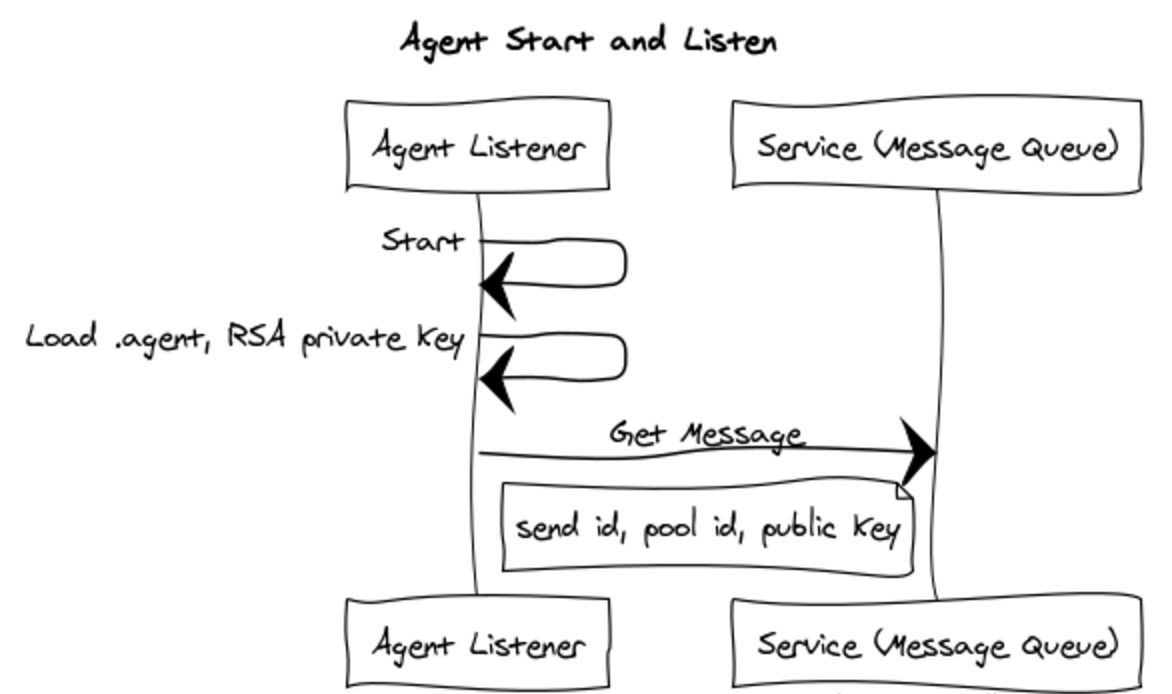
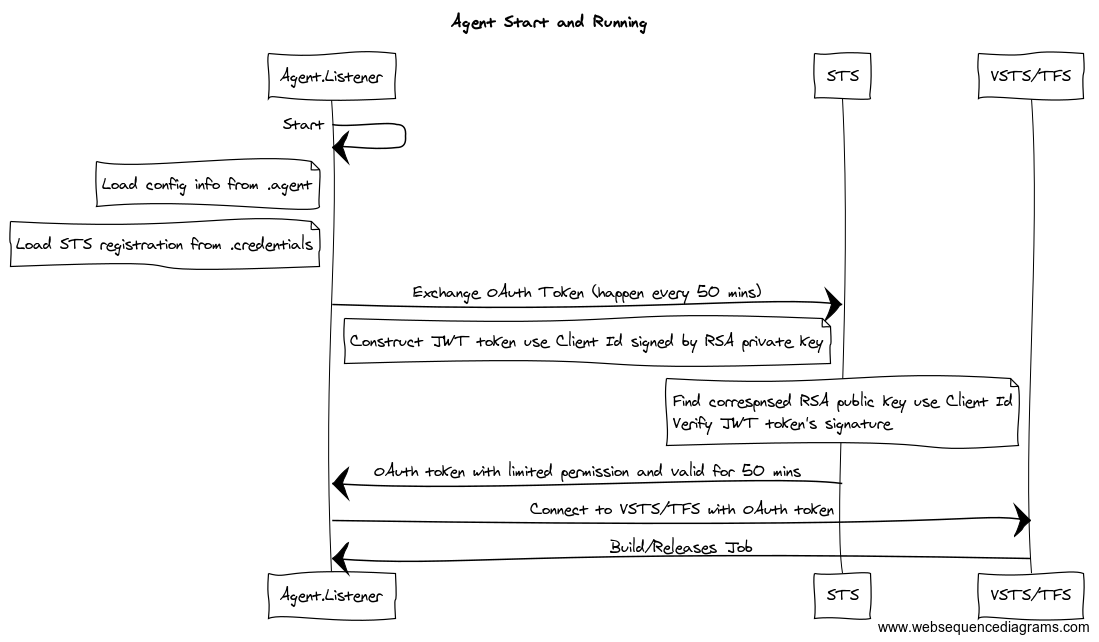
update agent auth doc. (#1351)
* update agent auth doc.

* update sdk install script

diff --git a/docs/design/auth.md b/docs/design/auth.md
@@ -18,9 +18,9 @@ Configuration is done with the user being authenticated via a PAT (VSTS | TFS) o
 
 *Your credentials are not stored and are only relevant for registering the agent with the service.*
 
-During configuration an RSA private key is created and on windows protected with DPAPI (machine level encrypted - agent only valid on that machine) and on Linux / OSX with chmod permissions.
+During configuration an RSA public/private key pair is created, the private key is stored in file on disk, on windows the content is protected with DPAPI (machine level encrypted - agent only valid on that machine) and on Linux/OSX with chmod permissions.
 
-Using your credentials, the agent is registered with the service by sending the unique clientId and public key to the service which adds that agent to the pool and stores the public key associated with the clientId.
+Using your credentials, the agent is registered with the service by sending the public key to the service which adds that agent to the pool and stores the public key, STS will generate clientId associated with the public key.
 
 ## Start and Listen
 
@@ -28,15 +28,15 @@ After configuring the agent, the agent can be started interactively (./run.cmd o
 
 ![Start](02AgentStartListen.png)
 
-On start, the agent listener process loads the RSA private key (on windows decrypting with machine key DPAPI), creates a public key and calls the message queue (http long poll) waiting for a job message to run.  The service retrieves the public key it had stored associated with the clientId and validates.
+On start, the agent listener process loads the RSA private key (on windows decrypting with machine key DPAPI), sends a JWT token which signed by the private key to the service in order to exchange back an OAuth token that has permission to calls the message queue (http long poll) waiting for a job message to run.  
 
 ## Queue Build
 
-When a build is queued, it's demands are evaluated, it is matched to an agent and place in an agents queue of messages.  The agent is listening for jobs via the message queue http long poll.
+When a build is queued, it's demands are evaluated, it is matched to an agent and place in an agents queue of messages.  The agent is listening for jobs via the message queue http long poll.  The message also encrypted with the agent's public key service stored during agent configuration.  
 
 ![Queue](03AgentQueueBuild.png)
 
-A build is queued manually or as the result of a checkin trigger or build schedule.  A [JWT token](http://self-issued.info/docs/draft-ietf-oauth-json-web-token.html) is generated to for the project or collection level build service account (see options tab of build definition).  The lifetime of the JWT token is the lifetime of the build or at most the build timeout (options tab).
+A build is queued manually or as the result of a check-in trigger or build schedule.  A [JWT token](http://self-issued.info/docs/draft-ietf-oauth-json-web-token.html) is generated to for the project or collection level build service account (see options tab of build definition).  The lifetime of the JWT token is the lifetime of the build or at most the build timeout (options tab).
 
 ## Accessing VSTS or TFS Resources
 
